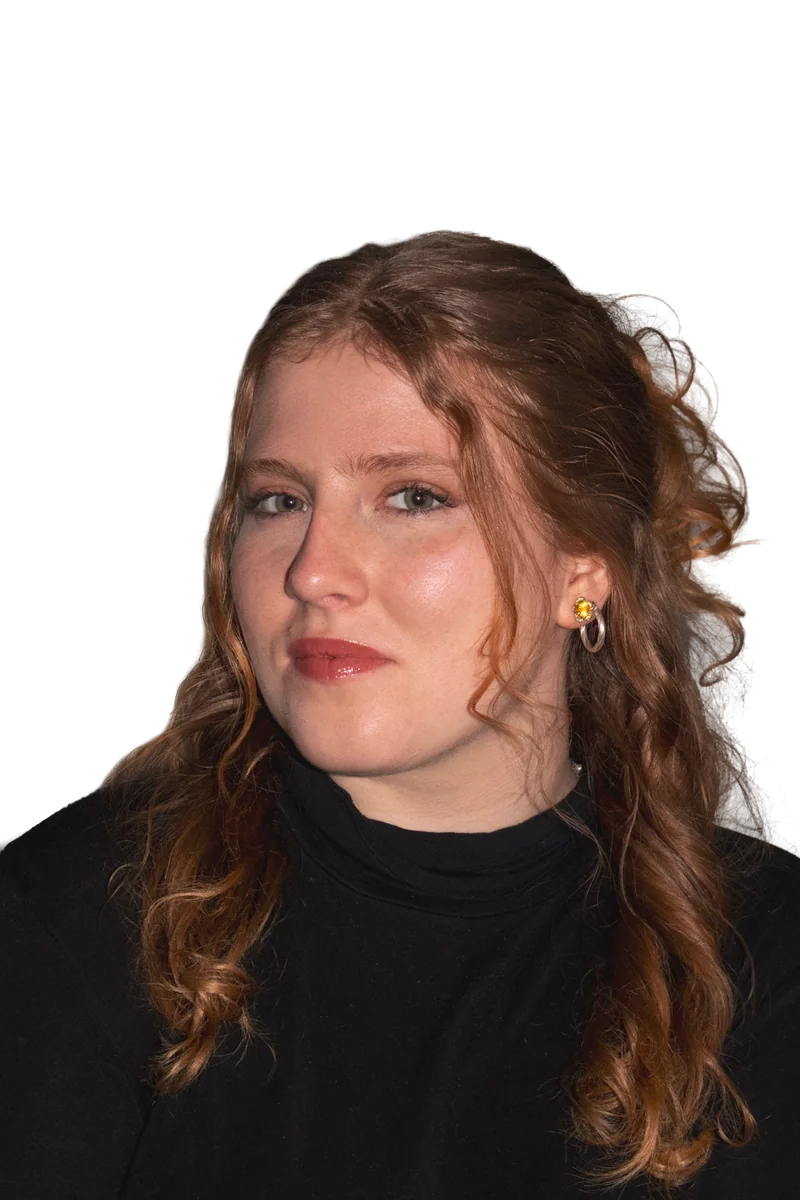
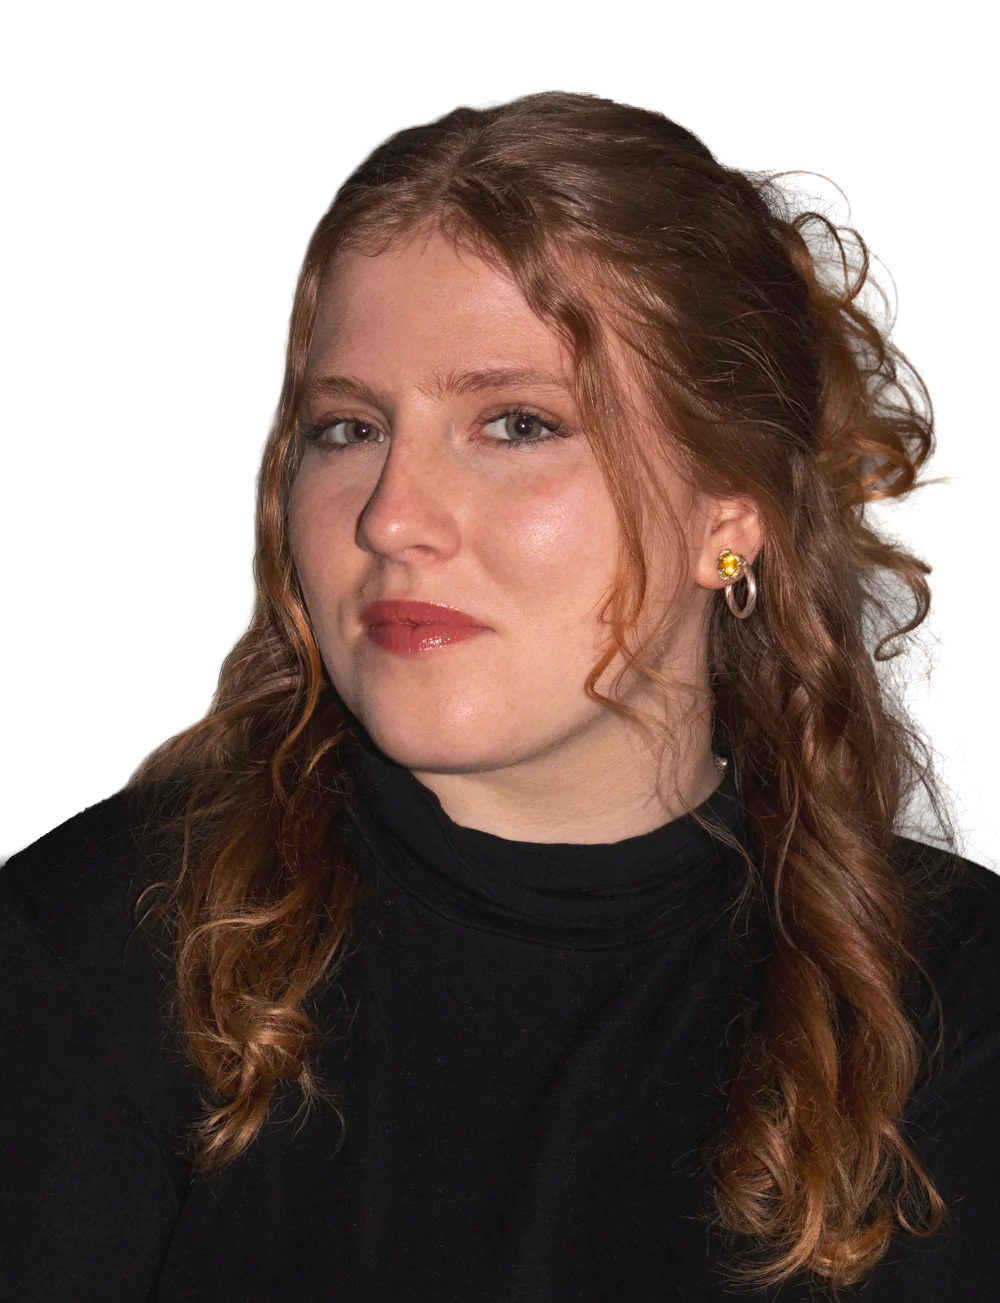
Headshot: face the text, Fern panel, vignette; add Instagram
- Portrait moves to the right so she faces the text
- Sits on a Fern panel in both themes, matched to the text column's height
- Trimmed headroom so the crop anchors at the top of her hair
- Soft radial vignette on the left, right and bottom
- Instagram @gswain_photography in the footer, contact page and JSON-LD sameAs

Claude-Session: https://claude.ai/code/session_01R921pKyySh1KQnSC3NnMkW

diff --git a/assets/css/site.css b/assets/css/site.css
@@ -336,14 +336,21 @@ body.lb-lock { overflow: hidden; }
 .prose code { font-family: ui-monospace, SFMono-Regular, Menlo, monospace; font-size: 0.85em; background: var(--bg-card); border: 1px solid var(--rule); padding: 1px 5px; }
 
 /* ---------- Headshot (transparent cut-out) ----------
-   The portrait is cropped at the torso, so it sits on the bottom edge of its
-   section (negative margin = section padding) instead of floating mid-section. */
-.headshot { margin: 0 0 calc(-1 * var(--space-10)); align-self: end; }
-.headshot img { width: 100%; max-width: 440px; height: auto; margin: 0 auto; }
+   Sits to the right so she faces the text, on a Fern panel in both themes.
+   The panel matches the text column top to bottom (min-height keeps it
+   generous when the text is short); the photo fills it, anchored at the top
+   of her hair. A soft vignette darkens the left, right and bottom edges. */
+.split:has(.headshot) { grid-template-columns: minmax(0, 1.3fr) minmax(0, 0.7fr); align-items: stretch; gap: var(--space-8); }
+.split:has(.headshot) > :not(.headshot) { align-self: center; }
+.headshot { order: 2; margin: 0; position: relative; overflow: hidden; min-height: 500px;
+            background: var(--fern); border: 1px solid var(--headshot-rule, transparent); }
+.headshot img { position: absolute; inset: 0; width: 100%; height: 100%; max-width: none;
+                object-fit: cover; object-position: 50% 0; }
+.headshot::after { content: ""; position: absolute; inset: 0; pointer-events: none;
+  background: radial-gradient(ellipse 85% 105% at 50% 18%, rgba(27, 38, 32, 0) 55%, rgba(27, 38, 32, 0.6) 100%); }
+@media (prefers-color-scheme: dark) { :root:not([data-theme="light"]) { --headshot-rule: var(--rule); } }
+:root[data-theme="dark"] { --headshot-rule: var(--rule); }
 @media (max-width: 960px) {
-  .headshot { order: 2; }
-  .headshot img { max-width: 340px; }
-}
-@media (max-width: 720px) {
-  .headshot { margin-bottom: calc(-1 * var(--space-9)); }
+  .split:has(.headshot) { grid-template-columns: 1fr; gap: var(--space-7); }
+  .headshot { min-height: 0; aspect-ratio: 4 / 5; width: 100%; max-width: 420px; }
 }

diff --git a/index.html b/index.html
@@ -66,6 +66,9 @@ j=d.createElement(s),dl=l!='dataLayer'?'&l='+l:'';j.async=true;j.src=
     "Portrait photography",
     "Artwork documentation",
     "Exhibition photography"
+   ],
+   "sameAs": [
+    "https://www.instagram.com/gswain_photography/"
    ]
   },
   {
@@ -89,7 +92,10 @@ j=d.createElement(s),dl=l!='dataLayer'?'&l='+l:'';j.async=true;j.src=
      "@type": "CollegeOrUniversity",
      "name": "RMIT University"
     }
-   }
+   },
+   "sameAs": [
+    "https://www.instagram.com/gswain_photography/"
+   ]
   },
   {
    "@type": "WebSite",
@@ -190,7 +196,7 @@ height="0" width="0" style="display:none;visibility:hidden"></iframe></noscript>
 
   <section class="section section--card" aria-labelledby="about-teaser">
     <div class="wrap split">
-      <figure class="headshot"><img src="images/about/gwendolen-swain-photographer-melbourne.webp" alt="Portrait of Gwendolen Swain, Melbourne photographer, with long auburn curls, wearing a black turtleneck" width="800" height="1200" loading="lazy" decoding="async"></figure>
+      <figure class="headshot"><img src="images/about/gwendolen-swain-photographer-melbourne.webp" alt="Portrait of Gwendolen Swain, Melbourne photographer, with long auburn curls, wearing a black turtleneck" width="1000" height="1303" loading="lazy" decoding="async"></figure>
       <div class="measure">
         <p class="eyebrow">About</p>
         <h2 id="about-teaser">Hello, I’m Gwendolen.</h2>
@@ -218,6 +224,7 @@ height="0" width="0" style="display:none;visibility:hidden"></iframe></noscript>
         <ul>
           <li><a href="mailto:me@gwendolen.com.au">me@gwendolen.com.au</a></li>
           <li><a href="tel:+61476153547">0476 153 547</a></li>
+          <li><a href="https://www.instagram.com/gswain_photography/" rel="me">Instagram @gswain_photography</a></li>
           <li>Melbourne, Victoria</li>
         </ul>
       </div>

diff --git a/about.html b/about.html
@@ -66,6 +66,9 @@ j=d.createElement(s),dl=l!='dataLayer'?'&l='+l:'';j.async=true;j.src=
     "Portrait photography",
     "Artwork documentation",
     "Exhibition photography"
+   ],
+   "sameAs": [
+    "https://www.instagram.com/gswain_photography/"
    ]
   },
   {
@@ -89,7 +92,10 @@ j=d.createElement(s),dl=l!='dataLayer'?'&l='+l:'';j.async=true;j.src=
      "@type": "CollegeOrUniversity",
      "name": "RMIT University"
     }
-   }
+   },
+   "sameAs": [
+    "https://www.instagram.com/gswain_photography/"
+   ]
   },
   {
    "@type": "WebSite",
@@ -131,7 +137,7 @@ height="0" width="0" style="display:none;visibility:hidden"></iframe></noscript>
 
   <section class="section">
     <div class="wrap split split--top">
-      <figure class="headshot"><img src="images/about/gwendolen-swain-photographer-melbourne.webp" alt="Portrait of Gwendolen Swain, Melbourne photographer, with long auburn curls, wearing a black turtleneck" width="800" height="1200" loading="lazy" decoding="async"></figure>
+      <figure class="headshot"><img src="images/about/gwendolen-swain-photographer-melbourne.webp" alt="Portrait of Gwendolen Swain, Melbourne photographer, with long auburn curls, wearing a black turtleneck" width="1000" height="1303" loading="lazy" decoding="async"></figure>
       <div class="measure">
         <p class="eyebrow">About</p>
         <h1>Hello, I’m Gwendolen.</h1>
@@ -180,6 +186,7 @@ height="0" width="0" style="display:none;visibility:hidden"></iframe></noscript>
         <ul>
           <li><a href="mailto:me@gwendolen.com.au">me@gwendolen.com.au</a></li>
           <li><a href="tel:+61476153547">0476 153 547</a></li>
+          <li><a href="https://www.instagram.com/gswain_photography/" rel="me">Instagram @gswain_photography</a></li>
           <li>Melbourne, Victoria</li>
         </ul>
       </div>

diff --git a/contact.html b/contact.html
@@ -66,6 +66,9 @@ j=d.createElement(s),dl=l!='dataLayer'?'&l='+l:'';j.async=true;j.src=
     "Portrait photography",
     "Artwork documentation",
     "Exhibition photography"
+   ],
+   "sameAs": [
+    "https://www.instagram.com/gswain_photography/"
    ]
   },
   {
@@ -89,7 +92,10 @@ j=d.createElement(s),dl=l!='dataLayer'?'&l='+l:'';j.async=true;j.src=
      "@type": "CollegeOrUniversity",
      "name": "RMIT University"
     }
-   }
+   },
+   "sameAs": [
+    "https://www.instagram.com/gswain_photography/"
+   ]
   },
   {
    "@type": "WebSite",
@@ -138,6 +144,7 @@ height="0" width="0" style="display:none;visibility:hidden"></iframe></noscript>
         <ul class="details">
           <li><span class="label">Email</span><a href="mailto:me@gwendolen.com.au">me@gwendolen.com.au</a></li>
           <li><span class="label">Phone</span><a href="tel:+61476153547">0476 153 547</a></li>
+          <li><span class="label">Instagram</span><a href="https://www.instagram.com/gswain_photography/" rel="me">@gswain_photography</a></li>
           <li><span class="label">Based in</span><span class="lead">Melbourne, Victoria</span></li>
         </ul>
       </div>
@@ -198,6 +205,7 @@ height="0" width="0" style="display:none;visibility:hidden"></iframe></noscript>
         <ul>
           <li><a href="mailto:me@gwendolen.com.au">me@gwendolen.com.au</a></li>
           <li><a href="tel:+61476153547">0476 153 547</a></li>
+          <li><a href="https://www.instagram.com/gswain_photography/" rel="me">Instagram @gswain_photography</a></li>
           <li>Melbourne, Victoria</li>
         </ul>
       </div>

diff --git a/404.html b/404.html
@@ -67,6 +67,9 @@ j=d.createElement(s),dl=l!='dataLayer'?'&l='+l:'';j.async=true;j.src=
     "Portrait photography",
     "Artwork documentation",
     "Exhibition photography"
+   ],
+   "sameAs": [
+    "https://www.instagram.com/gswain_photography/"
    ]
   },
   {
@@ -90,7 +93,10 @@ j=d.createElement(s),dl=l!='dataLayer'?'&l='+l:'';j.async=true;j.src=
      "@type": "CollegeOrUniversity",
      "name": "RMIT University"
     }
-   }
+   },
+   "sameAs": [
+    "https://www.instagram.com/gswain_photography/"
+   ]
   },
   {
    "@type": "WebSite",
@@ -153,6 +159,7 @@ height="0" width="0" style="display:none;visibility:hidden"></iframe></noscript>
         <ul>
           <li><a href="mailto:me@gwendolen.com.au">me@gwendolen.com.au</a></li>
           <li><a href="tel:+61476153547">0476 153 547</a></li>
+          <li><a href="https://www.instagram.com/gswain_photography/" rel="me">Instagram @gswain_photography</a></li>
           <li>Melbourne, Victoria</li>
         </ul>
       </div>

diff --git a/privacy.html b/privacy.html
@@ -66,6 +66,9 @@ j=d.createElement(s),dl=l!='dataLayer'?'&l='+l:'';j.async=true;j.src=
     "Portrait photography",
     "Artwork documentation",
     "Exhibition photography"
+   ],
+   "sameAs": [
+    "https://www.instagram.com/gswain_photography/"
    ]
   },
   {
@@ -89,7 +92,10 @@ j=d.createElement(s),dl=l!='dataLayer'?'&l='+l:'';j.async=true;j.src=
      "@type": "CollegeOrUniversity",
      "name": "RMIT University"
     }
-   }
+   },
+   "sameAs": [
+    "https://www.instagram.com/gswain_photography/"
+   ]
   },
   {
    "@type": "WebSite",
@@ -191,6 +197,7 @@ height="0" width="0" style="display:none;visibility:hidden"></iframe></noscript>
         <ul>
           <li><a href="mailto:me@gwendolen.com.au">me@gwendolen.com.au</a></li>
           <li><a href="tel:+61476153547">0476 153 547</a></li>
+          <li><a href="https://www.instagram.com/gswain_photography/" rel="me">Instagram @gswain_photography</a></li>
           <li>Melbourne, Victoria</li>
         </ul>
       </div>

diff --git a/work.html b/work.html
@@ -66,6 +66,9 @@ j=d.createElement(s),dl=l!='dataLayer'?'&l='+l:'';j.async=true;j.src=
     "Portrait photography",
     "Artwork documentation",
     "Exhibition photography"
+   ],
+   "sameAs": [
+    "https://www.instagram.com/gswain_photography/"
    ]
   },
   {
@@ -89,7 +92,10 @@ j=d.createElement(s),dl=l!='dataLayer'?'&l='+l:'';j.async=true;j.src=
      "@type": "CollegeOrUniversity",
      "name": "RMIT University"
     }
-   }
+   },
+   "sameAs": [
+    "https://www.instagram.com/gswain_photography/"
+   ]
   },
   {
    "@type": "WebSite",
@@ -239,6 +245,7 @@ height="0" width="0" style="display:none;visibility:hidden"></iframe></noscript>
         <ul>
           <li><a href="mailto:me@gwendolen.com.au">me@gwendolen.com.au</a></li>
           <li><a href="tel:+61476153547">0476 153 547</a></li>
+          <li><a href="https://www.instagram.com/gswain_photography/" rel="me">Instagram @gswain_photography</a></li>
           <li>Melbourne, Victoria</li>
         </ul>
       </div>
